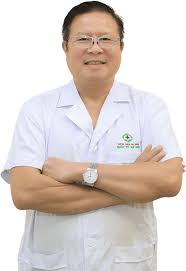
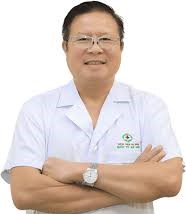
Update OurStaffPage: Fix nurse images and update doctor image

diff --git a/src/pages/OurStaffPage.jsx b/src/pages/OurStaffPage.jsx
@@ -15,7 +15,7 @@ const doctors = [
     specialization: "Chuyên khoa Sản phụ khoa, Hỗ trợ sinh sản",
     education: "Tiến sĩ Y khoa, Đại học Y Hà Nội",
     experience: "Hơn 20 năm kinh nghiệm trong lĩnh vực hỗ trợ sinh sản",
-    image: "/images/doctors/doctor1.jpg",
+    image: "/images/doctors/doctor1.png",
     email: "nguyen.van.a@example.com",
     phone: "+84 123 456 789",
     certificates: ["Hội Sản Phụ Khoa Việt Nam", "Hiệp hội Sinh sản Châu Á Thái Bình Dương"],
@@ -30,7 +30,7 @@ const doctors = [
     specialization: "Chuyên khoa Nội tiết sinh sản",
     education: "Tiến sĩ Y khoa, Đại học Y Dược TP.HCM",
     experience: "15 năm kinh nghiệm trong điều trị vô sinh hiếm muộn",
-    image: "/images/doctors/doctor2.jpg",
+    image: "/images/doctors/doctor2.png",
     email: "le.thi.b@example.com",
     phone: "+84 123 456 790",
     certificates: ["Hội Nội tiết Việt Nam", "Hiệp hội Sinh sản Quốc tế"],
@@ -77,7 +77,7 @@ const nurses = [
     role: "Điều dưỡng trưởng",
     experience: "15 năm kinh nghiệm",
     education: "Cử nhân Điều dưỡng, Đại học Y Hà Nội",
-    image: "https://example.com/images/nurse1.jpg"
+    image: "/images/nurses/nurses1.jpg"
   },
   {
     id: 2,
@@ -85,7 +85,7 @@ const nurses = [
     role: "Điều dưỡng",
     experience: "8 năm kinh nghiệm",
     education: "Cử nhân Điều dưỡng, Đại học Y Dược TP.HCM",
-    image: "https://example.com/images/nurse2.jpg"
+    image: "/images/nurses/nurses2.webp"
   },
   {
     id: 3,
@@ -93,7 +93,7 @@ const nurses = [
     role: "Điều dưỡng",
     experience: "7 năm kinh nghiệm",
     education: "Cử nhân Điều dưỡng, Đại học Y Huế",
-    image: "https://example.com/images/nurse3.jpg"
+    image: "/images/nurses/nurses3.webp"
   },
   {
     id: 4,
@@ -101,7 +101,7 @@ const nurses = [
     role: "Kỹ thuật viên phòng lab",
     experience: "10 năm kinh nghiệm",
     education: "Cử nhân Xét nghiệm, Đại học Y Dược TP.HCM",
-    image: "https://example.com/images/nurse4.jpg"
+    image: "/images/nurses/nurses4.webp"
   }
 ];
 
